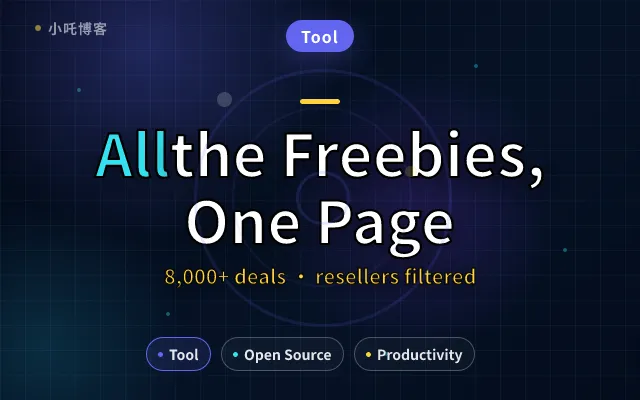
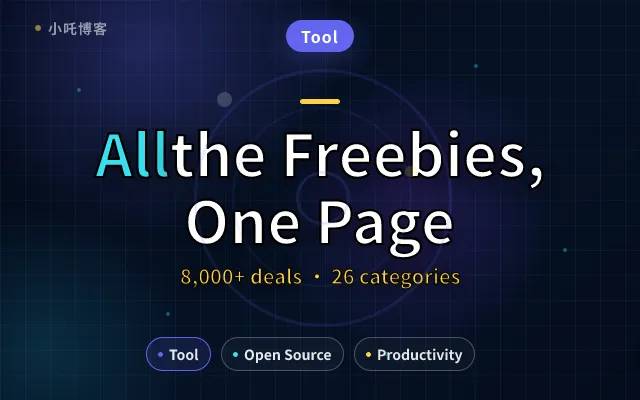
refactor: 福利雷达文章改为纯服务介绍，移除后台实现细节

Changed region(s): [[0.25, 0.66, 0.75, 0.72]]

diff --git a/src/content/posts-en/freebie-radar.md b/src/content/posts-en/freebie-radar.md
@@ -1,7 +1,7 @@
 ---
-title: "Freebie Radar: 8,000 Deals on One Page, With the Resellers Kicked Out"
+title: "Freebie Radar: 8,000 Deals on One Page"
 pubDatetime: "2026-11-27T00:00:00.000Z"
-description: "Hunting for free credits, promo codes, and trial access used to mean digging through a dozen forums and Telegram groups — only to land on someone's 'selling a VPS' post. I pulled those sources into one page and added block rules plus an AI second pass. Here's how to use it, how it keeps resellers out, and the trap I avoided."
+description: "Hunting for free credits, promo codes, and trial access used to mean digging through a dozen forums and Telegram groups. Now they're all on one page: 26 categories, search, promo codes shown inline, refreshed every 30 minutes. Here's how to use it and what to check for yourself."
 author: "Xiaozha"
 tags: ["Tool", "Open Source", "Productivity"]
 draft: false
@@ -14,16 +14,14 @@ Hunting for freebies gets old fast.
 
 You want a free AI credit or a cloud provider's promo code. You open your bookmarks, flip through two pages of Nodeseek, search LinuxDO, check V2EX, then scroll back through a Telegram group. The information is scattered everywhere.
 
-And then, after all that digging, you land on "【出】 cheap VPS, take it" or "looking to buy a ChatGPT seat." That's not a freebie. That's someone's secondhand sales post.
-
-I pulled those sources into a single page and did two things: **gather the deals in one place, and keep the resellers out.**
+So I pulled those sources into a single page. Open it and scroll — no more jumping between sites.
 
 ## Two entrances, pick either
 
 - "Freebie Radar" in this blog's navigation: [/radar/](https://xiaozha.org/en/radar/)
 - Standalone site: [radar.xiaozha.org](https://radar.xiaozha.org/)
 
-Same data on both. The standalone site has the native admin panel; the blog version is a reading page styled to match the rest of the site. If you just want to browse deals, the blog page looks better. If you want stats or want to change rules, use the standalone site.
+Same data on both. The blog page is styled to match the rest of the site, so it's easier to read; the standalone site is the original page.
 
 ## Three things you can use right away
 
@@ -37,62 +35,19 @@ It loads 24 items at a time — click "Load more" for the next batch. The build 
 
 ## Where the data comes from
 
-Under the hood is the open-source [freebie-radar](https://github.com/ZiChuanLan/freebie-radar) project, around 2,900 stars at the time of writing. Its collectors watch 100+ sources and run every 30 minutes, pulling deals out of forums, communities, and vendor pages.
+Under the hood is the open-source [freebie-radar](https://github.com/ZiChuanLan/freebie-radar) project, around 2,900 stars at the time of writing. Its collectors watch 100+ sources and run every 30 minutes, pulling deals out of forums, communities, and vendor pages, then removing duplicates and garbage text and sorting everything into categories.
 
-Collecting is only step one. Then come three filters:
-
-1. **Deduplication and cleanup**: if several sources carry the same deal, only one survives; garbage characters and tracking parameters get stripped.
-2. **Hard block rules**: anything matching a rule is never displayed.
-3. **AI second pass**: decides whether it's a real deal, whether it's expired, and whether it's just an ad in disguise.
-
-There are over 8,000 items in the database now. More than 2,600 have been judged by AI, with over 600 rejected as noise.
-
-## How the reseller posts get blocked
-
-This is the part I worked on most recently.
-
-The dumb-but-effective approach first: **block rules**. There are 45 rules, in keyword and regex modes. Beyond the obvious words like "selling," "transfer," and "resell," it also catches a batch of variants:
-
-- Tag style: `【出】`, `【收】`, `[出]`, `[收]` (Chinese "selling" / "buying" tags)
-- Opening style: "buying one…", "selling a…", "收U", "pre-sale"
-- Phrase style: "reselling at markup," "remaining value sale," "push included," "device swap," "收机", "收鸡"
-
-Matching items are excluded at the database query stage, so the front end never even loads them. New items collected from now on get the same treatment.
-
-But block rules have a built-in weakness: they only match literal text. Change the wording and they miss. "70r 出" — a sale for 70 yuan — is one example; you can't write a rule for every possible number, and if you try, you'll start killing legitimate news about discounts.
-
-So there's a second layer: **AI supplementary review rules**.
-
-I wrote a long set of judging instructions in the admin panel. The core boils down to two sentences:
-
-> Person-to-person sales of accounts, VPS instances, domains, subscriptions, seats, or gift cards are always noise.
-> Official vendor promotions, free giveaways, and all-time-low discounts are not sales posts — keep them.
-
-The second sentence matters more. Say only "reject sales posts" and the AI starts treating "this cloud provider is 50% off today" as a sales post too. With the boundary spelled out, spot checks show it correctly separates "selling a raksmart VPS, personal transfer" from "official limited-time discount."
-
-New items go through AI review automatically. I also re-ran 500 older items to check the rules were pointing in the right direction.
-
-## The "original post deleted" problem — what I didn't do
-
-You might think: just request each original URL and delete anything that returns 404.
-
-I tested it. It doesn't work.
-
-Nodeseek links return 403 across the board; plenty of LinuxDO links return 429, and what you get is a Cloudflare "Just a moment..." challenge page. The status code your script sees tells you nothing about whether the post was actually deleted. Bulk-deleting on HTTP status would wipe out a huge number of perfectly good items.
-
-So I took the safer route: have the AI look for content clues during review — "original post deleted," "content no longer exists," "topic not found," "link expired" — and mark those as noise. At the same time, news articles merely *discussing* whether something will be deleted are explicitly excluded, to avoid false positives.
-
-It won't leave the database perfectly clean. But it won't kill good items either.
+There are over 8,000 items in the database now.
 
 ## Where it stops
 
 - **It's an aggregator, not a guarantee.** Promo codes expire, free quotas run out. Still open the original post and check.
 - **Some deals are region- or new-user-only.** A "Free" badge means the source marked it free at collection time, not that you can claim it.
-- **Filtering misses things and sometimes gets them wrong.** Forty-five rules plus AI review catch the vast majority of reseller posts, but zero leakage isn't promised. If you spot one, add a rule in the standalone admin panel — no code changes needed.
+- **With this much information, some entries go stale.** The original post is the source of truth.
 
 ## One last thing
 
-It runs on my own server, so when a source dies, a rule needs changing, or the AI gets something wrong, I can fix it myself. The upstream project also supports Telegram push notifications — I left that off, because 8,000+ items a day would bury your phone.
+The upstream project also supports Telegram push notifications — I left that off, because 8,000+ items a day would bury your phone.
 
 If you want to build your own, start with the official repo's deployment docs. If you just want the freebies, the blog page is enough.
 

diff --git a/src/content/posts/freebie-radar.md b/src/content/posts/freebie-radar.md
@@ -1,7 +1,7 @@
 ---
-title: "福利雷达上线：全网免费资源一页刷完，卖号帖直接踢掉"
+title: "福利雷达上线：全网免费资源，一页刷完"
 pubDatetime: "2026-11-27T00:00:00.000Z"
-description: "找免费额度、优惠码、试用资格，过去要翻十几个论坛和电报群，还总撞上「收机」「溢价出」的转让帖。我把这些源聚成一个页面，并加了屏蔽词和 AI 双重过滤。这篇讲它怎么用、怎么保证不混进卖号帖，以及哪些坑我踩过了。"
+description: "找免费额度、优惠码、试用资格，过去要翻十几个论坛和电报群。现在它们都在一个页面上：26 个分类、搜索、优惠码直接显示，每 30 分钟自动更新。这篇讲它怎么用，以及哪些情况需要你自己确认。"
 author: 小吒
 tags:
   - 工具
@@ -15,18 +15,16 @@ enSlug: "freebie-radar"
 
 找福利这件事，搞过几次就知道有多烦。
 
-你想找个能白嫖的 AI 额度，或者某个云厂商的优惠码。打开收藏夹，Nodeseek 翻两页、LinuxDO 搜一遍、V2EX 再看一眼， Telegram 群还得往上翻——信息散得到处都是。
+你想找个能白嫖的 AI 额度，或者某个云厂商的优惠码。打开收藏夹，Nodeseek 翻两页、LinuxDO 搜一遍、V2EX 再看一眼，Telegram 群还得往上翻——信息散得到处都是。
 
-更烦的是翻了半天，跳出来一条"【出】低价转 VPS""收个 ChatGPT 席位"。这不是福利，这是别人的二手交易帖。
-
-我把这些源聚到了一个页面上，做了两件事：**把福利集中起来，把卖号帖挡在外面。**
+我干脆把这些源聚到了一个页面上。打开就能刷，不用再来回跳。
 
 ## 两个入口，随便挑
 
 - 博客顶部导航的「福利雷达」：[/radar/](https://xiaozha.org/radar/)
 - 独立站：[radar.xiaozha.org](https://radar.xiaozha.org/)
 
-两边数据一样，独立站是原生的管理后台，博客这边是融进站点样式的阅读页。你要是只想看信息，博客这页更顺眼；想看统计、改规则，去独立站。
+两边数据一样。博客这页融进了站点样式，读起来更顺眼；独立站是原生的页面。
 
 ## 打开就能用的三个东西
 
@@ -38,64 +36,21 @@ enSlug: "freebie-radar"
 
 一次加载 24 条，往下拉点「加载更多」。构建时会存一份快照，页面打开后再用实时数据覆盖——就算接口暂时不通，你也不会看到空白页。
 
-## 它的数据从哪来
+## 数据从哪来
 
-底层用的是开源项目 [freebie-radar](https://github.com/ZiChuanLan/freebie-radar)，目前约 2900 star。它自带的采集器盯着 100 多个源，每 30 分钟跑一轮，把论坛、社区、商家页面里的优惠信息抓回来。
+底层用的是开源项目 [freebie-radar](https://github.com/ZiChuanLan/freebie-radar)，目前约 2900 star。采集器盯着 100 多个源，每 30 分钟跑一轮，把论坛、社区、商家页面里的优惠信息抓回来，去掉重复和乱码，按类别归好。
 
-抓回来只是第一步。中间还要过三道关：
-
-1. **去重和清洗**：同一条信息被多个源抓到，只留一条；标题里的乱码、追踪参数清掉。
-2. **屏蔽词硬拦截**：命中规则的直接不展示。
-3. **AI 二审**：判断这条是不是真福利、有没有过期、是不是广告软文。
-
-现在库里 8000 多条，2600 多条经过 AI 判定，600 多条被判为噪音挡掉了。
-
-## 卖号帖是怎么挡的
-
-这是最近加的重点功能。
-
-先说最笨也最有效的办法：**屏蔽词**。维护了 45 条规则，分关键词和正则两种。除了"出售""转让""代出"这些常规词，还收拾了一批变种：
-
-- 标签式：`【出】`、`【收】`、`[出]`、`[收]`
-- 开头式：`收个…`、`出一台…`、`收U`、`预出`
-- 短语式：`溢价出`、`剩余价值出`、`包push出`、`换机`、`收机`、`收鸡`
-
-命中的条目在数据库查询阶段就被排除，前台根本不会加载。以后新采集到的帖子，只要用这些说法，同样会被挡。
-
-但屏蔽词有个天生的毛病：它只认字面。换个说法就漏。比如"70r 出"，你没法把所有数字组合都写成规则——写多了又会误伤正常促销新闻。
-
-所以加了第二层：**AI 补充审核规则**。
-
-我在后台写了一长段判定指引，核心是两句话：
-
-> 个人之间买卖账号、VPS、域名、订阅、席位、礼品卡，一律判为噪音。
-> 商家官方促销、免费领取、史低折扣不算出售帖，照常保留。
-
-第二句比第一句更重要。光说"出售类不要"，AI 容易把"某云 5 折促销"也当成交易帖砍掉。明确划出边界之后，抽查时它已经能正确区分"350 出 raksmart 个人转让"和"官方限时折扣"。
-
-新增的帖子会走 AI 审核；老数据我也跑了 500 条重审来验证规则方向。
-
-## "原帖已删除"这事，我没硬做
-
-你可能想过：既然要清理，直接访问原帖 URL，404 就删掉不就行了？
-
-我实测过，不行。
-
-Nodeseek 的链接一律返回 403，LinuxDO 很多返回 429，点开是 Cloudflare 的"Just a moment..."挑战页。脚本看到的状态码，跟"帖子真的被删了"完全混在一起。按 HTTP 状态批量删，会把大量正常帖一起杀掉。
-
-所以改了个稳妥做法：让 AI 在审核时看内容线索——"原帖已删除""内容不存在""话题不存在""链接失效"这类表述判为噪音。同时明确排除"讨论某事会不会被删除"的新闻，避免误判。
-
-这不能保证 100% 干净。但它不会误杀。
+现在库里 8000 多条。
 
 ## 说清楚它的边界
 
 - **它是聚合器，不是保证书。** 优惠码可能失效，免费额度可能已经领完，点进去还是要看原帖确认。
-- **有些福利是限地区、限新用户的。** 卡片上的"免费"只表示发布时标为免费，不代表你能领。
-- **过滤会误判，也会漏。** 屏蔽词 45 条、AI 二审，能挡住绝大多数卖号帖，但不承诺零漏网。看到不对的，去独立站后台加一条规则就行，不用改代码。
+- **有些福利限地区、限新用户。** 卡片上的「免费」只表示发布时标为免费，不代表你一定能领。
+- **信息太多，偶尔会有失效条目。** 以原帖为准。
 
 ## 顺手说一句
 
-这套东西跑在自己服务器上，源挂了、规则要改、AI 判定不准，都能自己动手。开源项目本身也支持 Telegram 推送，只是我这边没开——每天 8000 多条，全推手机会被淹没。
+开源项目本身也支持 Telegram 推送，我这里没开——每天 8000 多条，全推手机会被淹没。
 
 你要是也想搭一个，先看官方仓库的部署说明；如果只是想白嫖，博客这页就够了。
 
